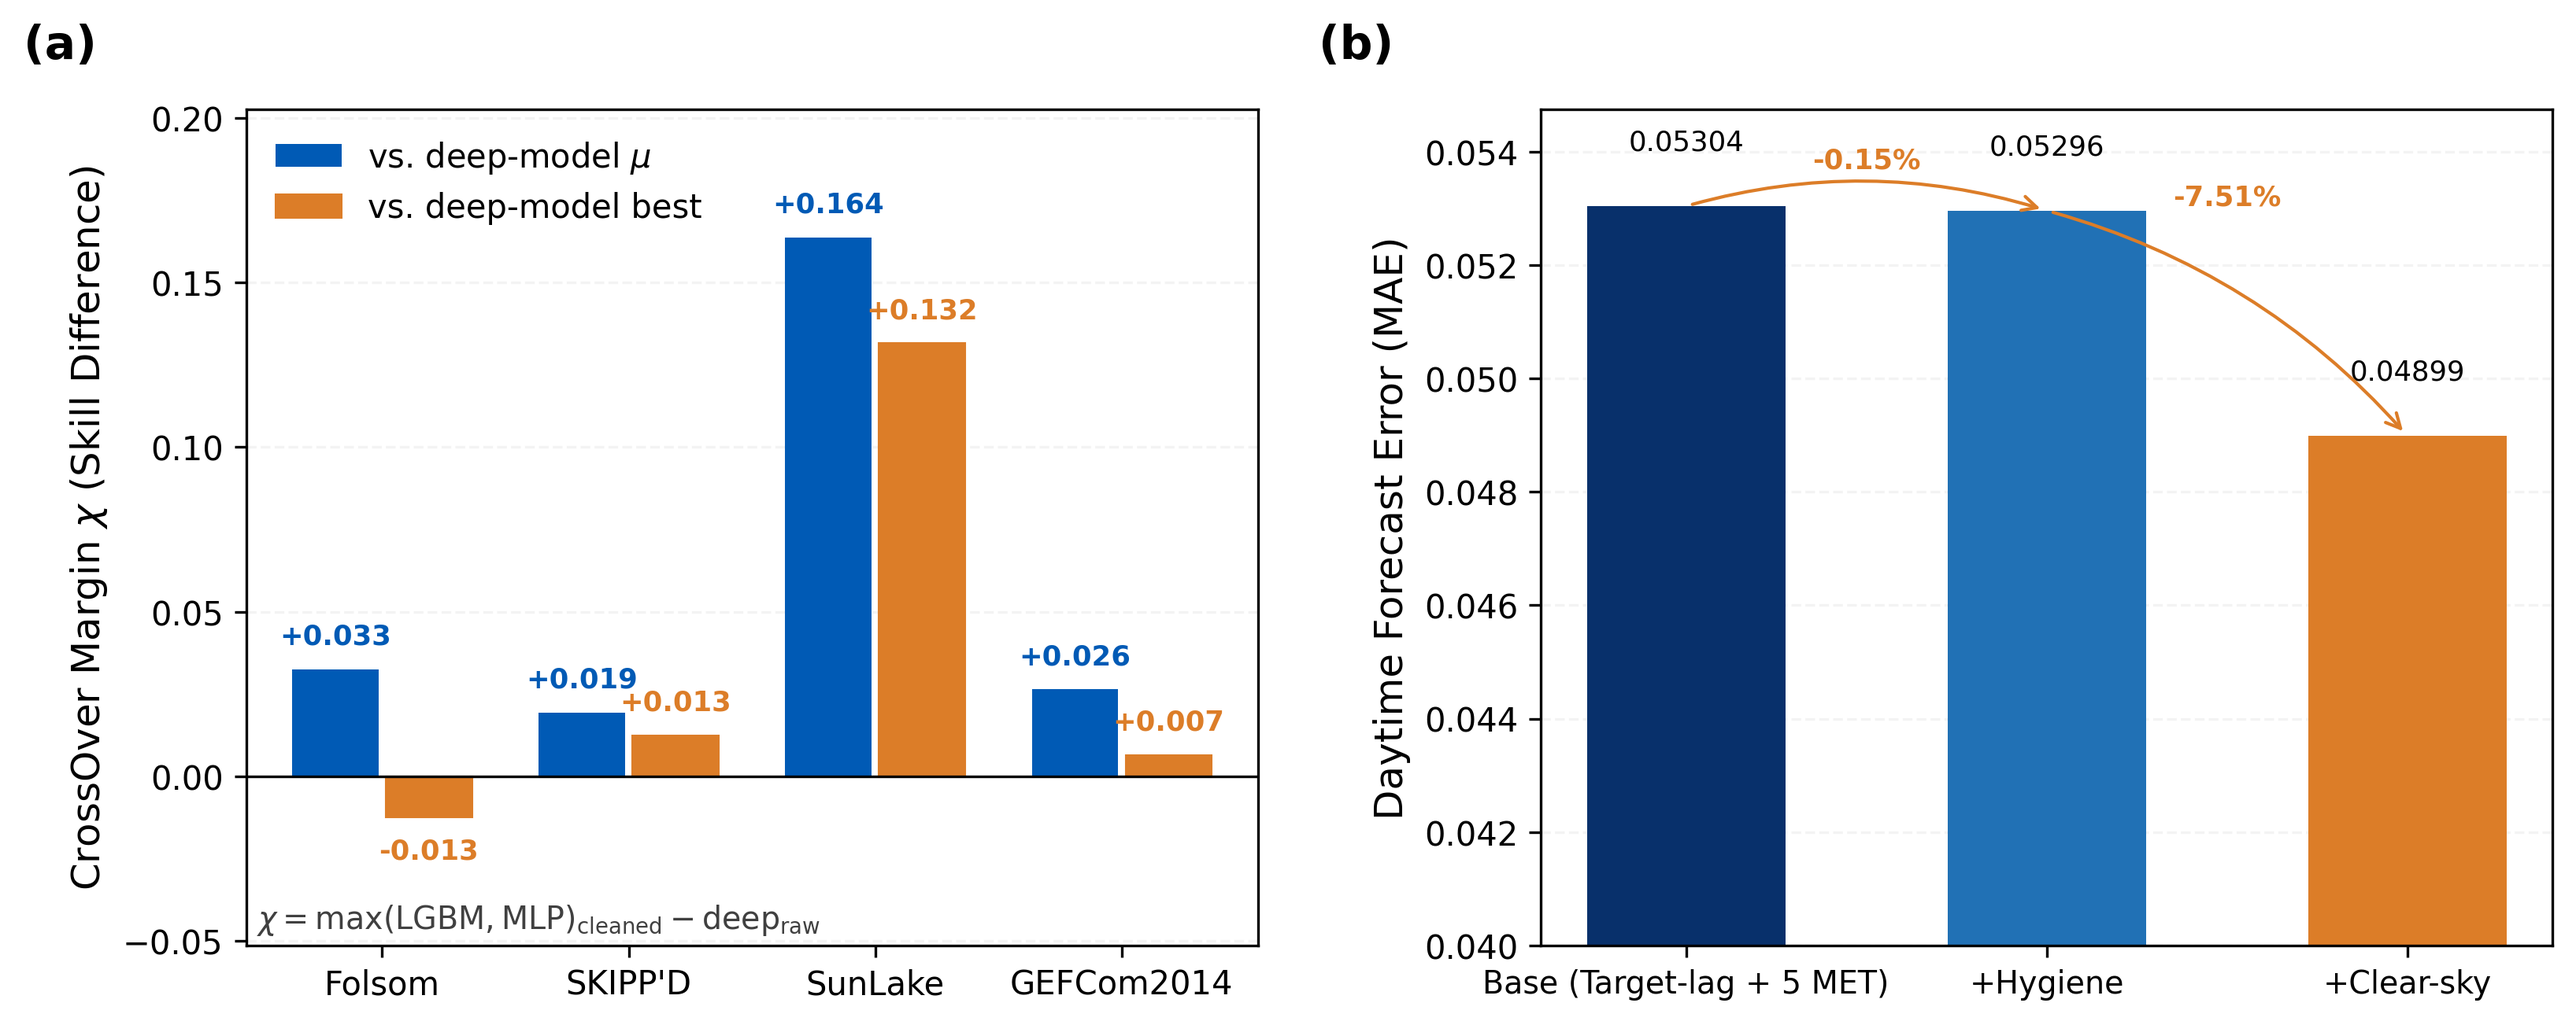
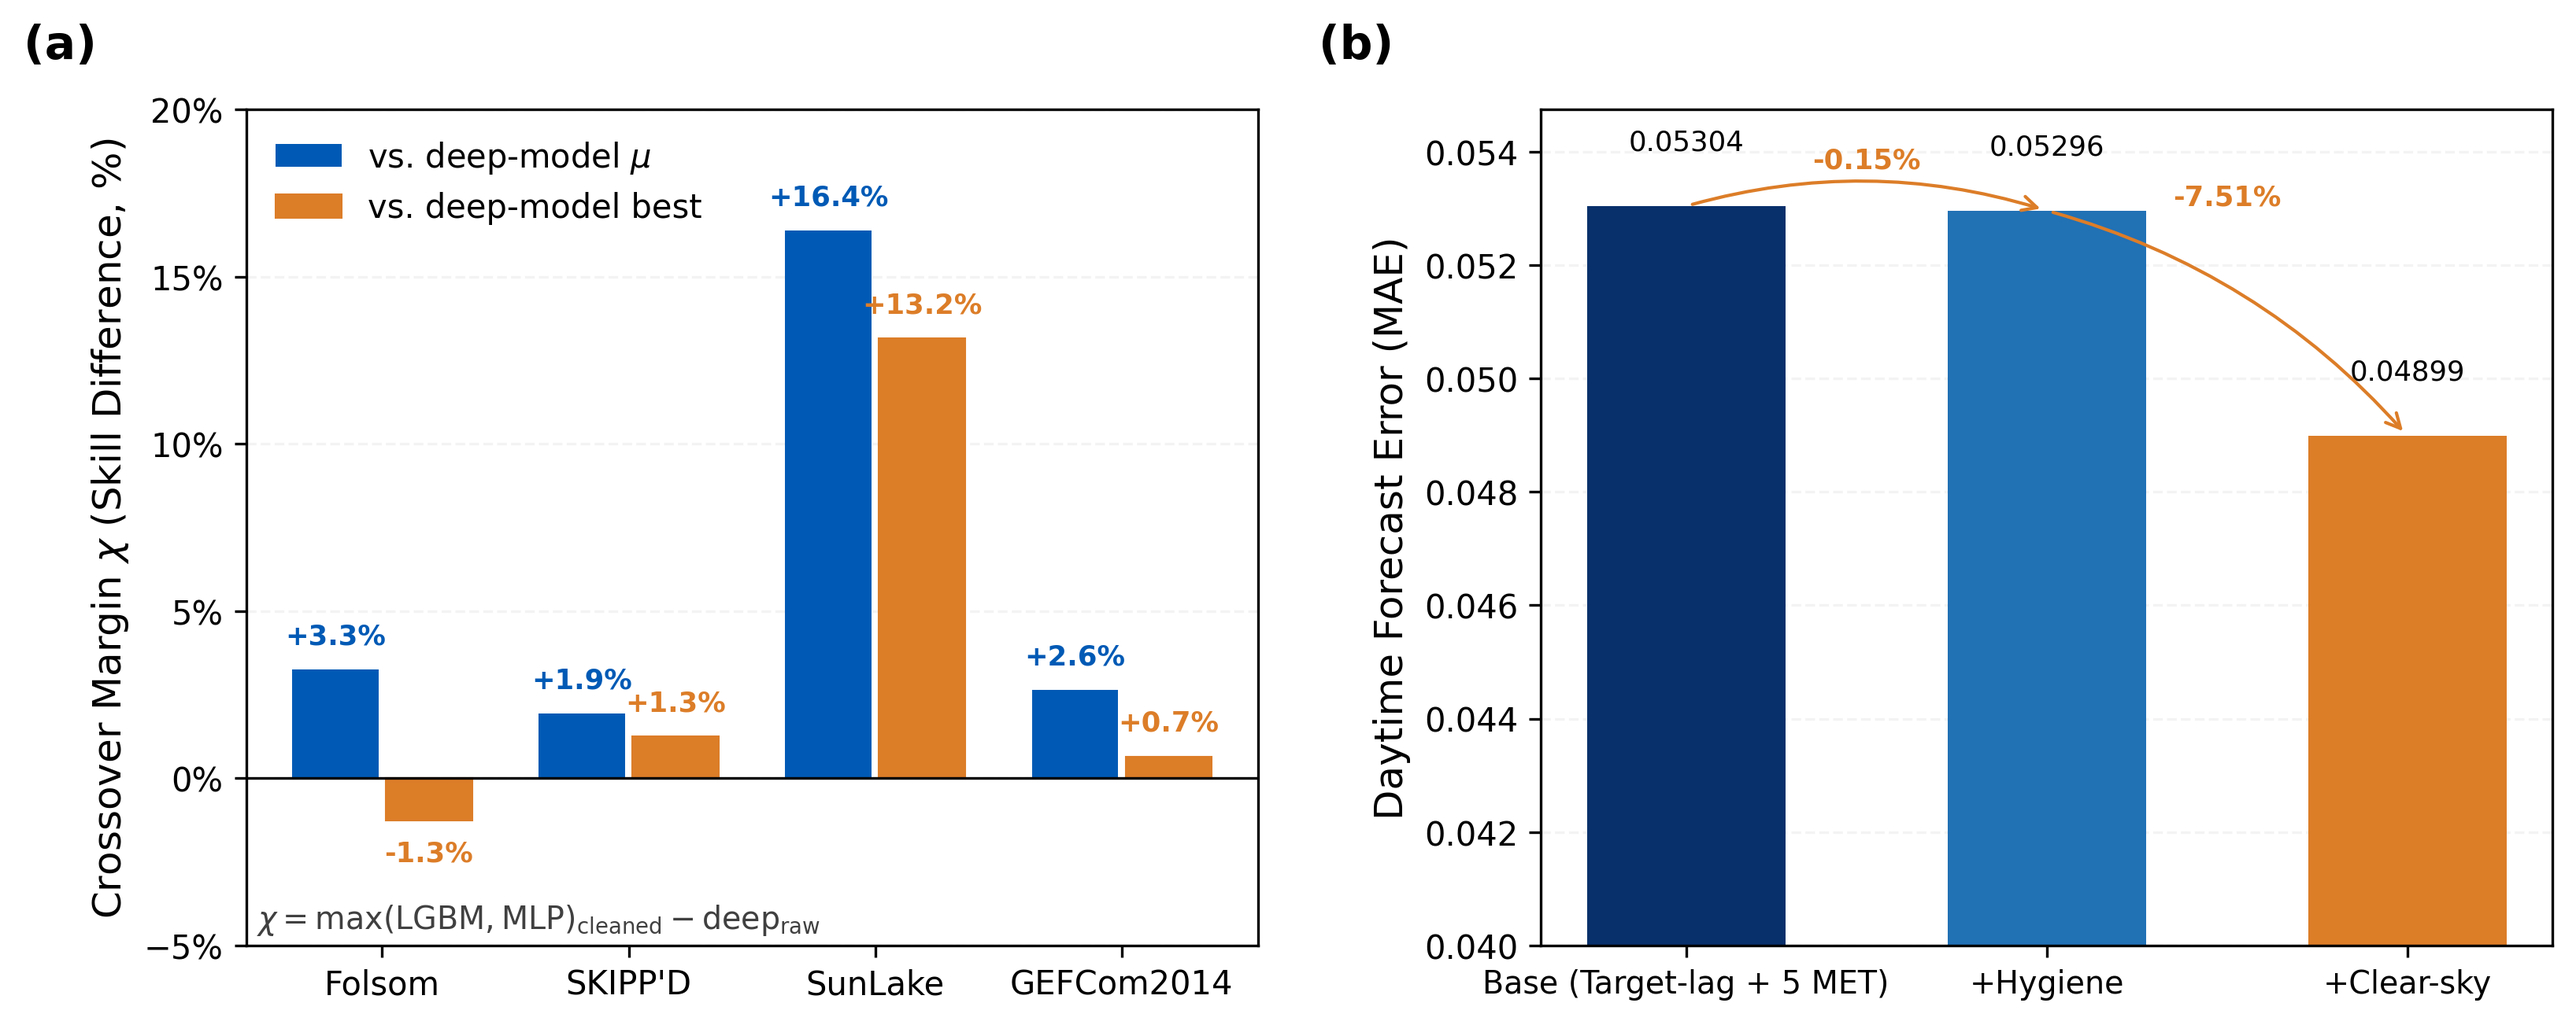
fig(08): panel (a) crossover margins as percentages
- bar annotations +0.033 -> +3.3% etc. (x100, 1 decimal; Folsom's -1.3%
  stays below the zero baseline)
- percent y-axis: ylim (-5%, 20%), 5%-spaced ticks via
  PercentFormatter(xmax=1.0); ylabel gains (, %) and the CrossOver ->
  Crossover case fix
- panel (b) waterfall untouched; fig08.png/.pdf regenerated at 300 dpi

diff --git a/scripts/plots/plot_fig08.py b/scripts/plots/plot_fig08.py
@@ -74,16 +74,17 @@ def _panel_a(ax: plt.Axes) -> None:
         for b, v in zip(bars, vals):
             va = "bottom" if v >= 0 else "top"
             off = 0.006 * (1 if v >= 0 else -1)
-            ax.text(b.get_x() + b.get_width() / 2, v + off, f"{v:+.3f}",
+            ax.text(b.get_x() + b.get_width() / 2, v + off,
+                    f"{v * 100:+.1f}%",
                     ha="center", va=va, fontsize=8.5, color=col,
                     fontweight="bold")
-    # Y head/foot room so the +/- labels never collide with the zero line.
-    all_vals = vs_mean + vs_best
-    lo, hi = min(all_vals), max(all_vals)
-    span = hi - lo
-    ax.set_ylim(lo - 0.22 * span, hi + 0.22 * span)
+    # Percent axis: fixed physical frame (-5% .. 20%) with 5%-spaced ticks.
+    ax.set_ylim(-0.05, 0.20)
+    ax.set_yticks(np.arange(-0.05, 0.2001, 0.05))
+    ax.yaxis.set_major_formatter(
+        mpl.ticker.PercentFormatter(xmax=1.0, decimals=0))
     ax.set_xticks(xpos, disp)
-    ax.set_ylabel(r"CrossOver Margin $\chi$ (Skill Difference)")
+    ax.set_ylabel(r"Crossover Margin $\chi$ (Skill Difference, %)")
     ax.grid(axis="y", linestyle="--", alpha=0.15)
     ax.set_axisbelow(True)
     ax.legend(frameon=False, fontsize=10, loc="upper left")
